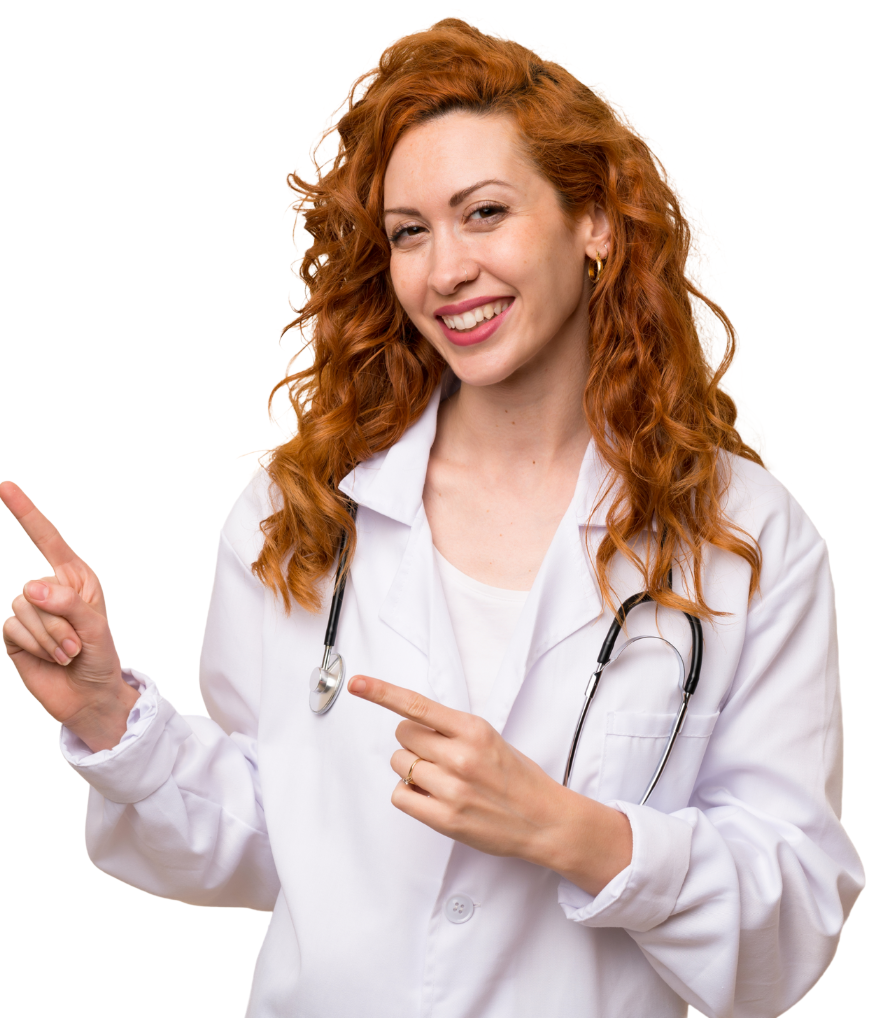
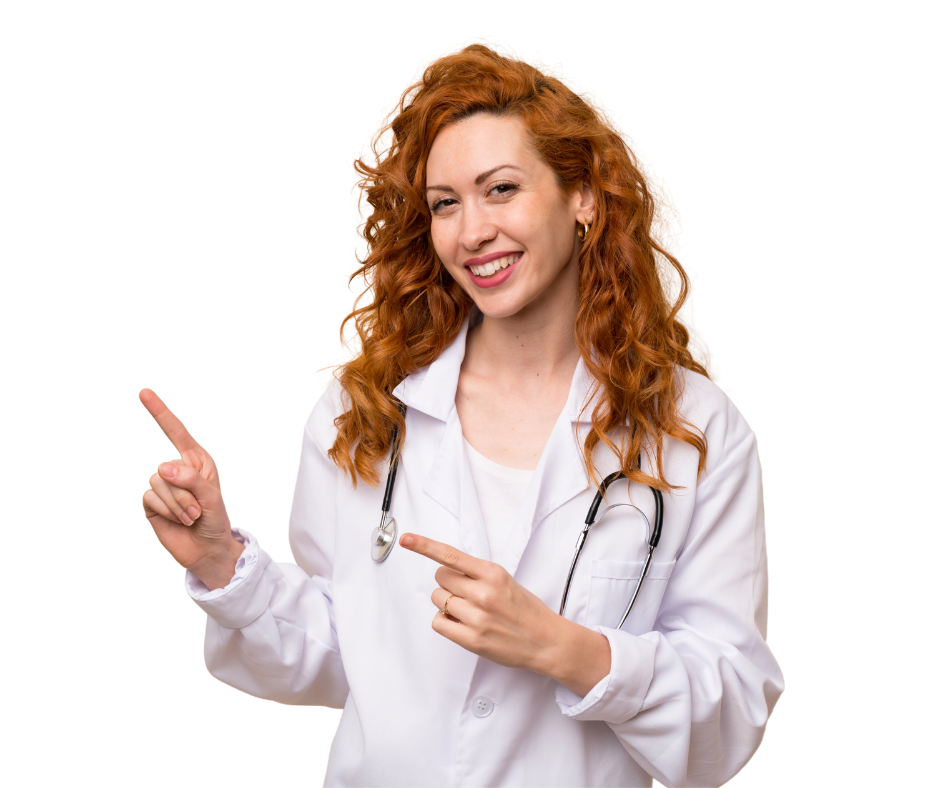
complete Contact section and also few global modification

diff --git a/src/components/Contact.jsx b/src/components/Contact.jsx
@@ -1,0 +1,38 @@
+import { IoIosArrowDown } from "react-icons/io"
+import Button from "./Button"
+import { herodoctor2 } from "../assets"
+
+const Contact = () => {
+  return (
+    <div className="bg-gradient/30 overflow-hidden">
+      <div className="relative container min-h-dvh pt-[7rem]">
+        <div className="flex items-start max-sm:pl-5 pl-10 w-full md:max-w-1/2">
+            <div className="flex-1 z-2 w-full md:max-w-xl mx-auto">
+                <h2 className="font-poppins tracking-wide font-semibold text-gray-100 mb-5">Book A Free Consultation</h2>
+                <form action="" className="flex flex-col gap-4">
+                    <div className="flexinput">
+                        <input type="text" placeholder="First Name" />
+                        <input type="text" placeholder="Last Name" />
+                    </div>
+                    <div className="flexinput">
+                        <input type="email" placeholder="Email ID" />
+                        <input type="text" placeholder="Mobile Number" />
+                    </div>
+                    <div className="relative w-full h-13 bg-white rounded-4xl border-2 border-gray-300/40 text-sm font-semibold text-gray-100 indent-6 ">
+                        <input type="text" className="outline-0 w-full h-full" placeholder="Country"/>
+                        <span className="absolute top-1/2 -translate-y-1/2 right-5 text-xs"><IoIosArrowDown /></span>
+                    </div>
+                    <textarea name="" id="" placeholder="Message" className="w-full min-h-40 pt-3 bg-white rounded-4xl border-2 border-gray-300/40 outline-0 text-sm font-semibold text-gray-100 indent-6 "></textarea>
+                    <Button title='Submit' className='py-3'/>
+                </form>
+            </div>
+        </div>
+        <div className="absolute lg:z-2 origin-bottom bottom-0 -right-[25rem] md:-right-40 lg:right-0 w-auto md:w-3/5 lg:max-w-7/12 h-full">
+            <img src={herodoctor2} className="w-full h-full object-center object-cover" alt="Container Image" />
+        </div>
+      </div>
+    </div>
+  )
+}
+
+export default Contact

diff --git a/src/index.css b/src/index.css
@@ -53,7 +53,7 @@
         @apply bg-hero-gradient bg-center bg-cover bg-no-repeat w-screen min-h-screen relative;
     }
     .bg-container-gradient {
-        @apply bg-hero-gradient bg-center bg-cover bg-no-repeat max-w-5xl mx-auto rounded-[3rem] relative text-center flex flex-col gap-4 py-18 px-20 overflow-hidden;
+        @apply bg-hero-gradient bg-center bg-cover bg-no-repeat max-w-[68rem] mx-auto rounded-[3rem] relative text-center flex flex-col gap-4 py-18 px-20 overflow-hidden;
     }
     .container {
         @apply px-5 md:px-7 lg:px-10 mx-auto
@@ -63,5 +63,12 @@
     }
     .primary_text span {
         @apply text-primary
+    }
+    .flexinput {
+        @apply flex items-center justify-between gap-3;
+
+       & input {
+            @apply w-full bg-white h-13 rounded-4xl border-2 border-gray-300/40 text-sm font-semibold text-gray-100 indent-6 outline-0
+        }
     }
 }

diff --git a/src/components/ServiceCard.jsx b/src/components/ServiceCard.jsx
@@ -5,7 +5,7 @@ const serviceCard = ({card: {
   imgUrl
 }}) => {
   return (
-    <div className="max-w-[21rem] h-auto flex justify-center flex-col items-center bg-gray-300/20 p-7 text-center rounded-3xl border-2 border-gray-100/10">
+    <div className="max-w-[21rem] h-auto flex justify-center flex-col items-center bg-gray-300/20 p-7 text-center rounded-3xl border-2 border-gray-300/10">
         <div className="flex items-center opacity-80 p-3 justify-center bg-[length:100%_100%] mb-1" style={{ 
           backgroundImage: `url(${imgUrl})`,
           backgroundRepeat: 'no-repeat',

diff --git a/src/components/Appointment.jsx b/src/components/Appointment.jsx
@@ -16,10 +16,10 @@ const Appointment = () => {
             </div>
         </div>
         <div className="absolute top-0 -right-5 opacity-60">
-            <img src={cross1} width={150} alt=""Cross />
+            <img src={cross1} width={150} alt="Cross" />
         </div>
         <div className="absolute bottom-0 left-5 opacity-60">
-            <img src={cross2} width={80} alt=""Cross />
+            <img src={cross2} width={80} alt="Cross" />
         </div>
       </div>
     </div>

diff --git a/src/App.jsx b/src/App.jsx
@@ -4,6 +4,8 @@ import Service from "./components/Service"
 import About from "./components/About"
 import OurExperts from "./components/OurExperts"
 import Appointment from "./components/Appointment"
+import Contact from "./components/Contact"
+// import Footer from "./components/Footer"
 
 const App = () => {
   return (
@@ -14,6 +16,8 @@ const App = () => {
       <About />
       <OurExperts />
       <Appointment />
+      <Contact />
+      {/* <Footer /> */}
     </div>
   )
 }

diff --git a/src/assets/index.js b/src/assets/index.js
@@ -1,5 +1,5 @@
 import herodoctor1 from "./herodoctor_1.png";
-import herodoctor2 from "./herodoctor_1.png";
+import herodoctor2 from "./herodoctor_2.png";
 
 import medcare_1 from "./medcare_1.png";
 import medcare_2 from "./medcare_2.png";

diff --git a/src/components/Footer.jsx b/src/components/Footer.jsx
@@ -1,0 +1,9 @@
+const Footer = () => {
+  return (
+    <div>
+      
+    </div>
+  )
+}
+
+export default Footer
